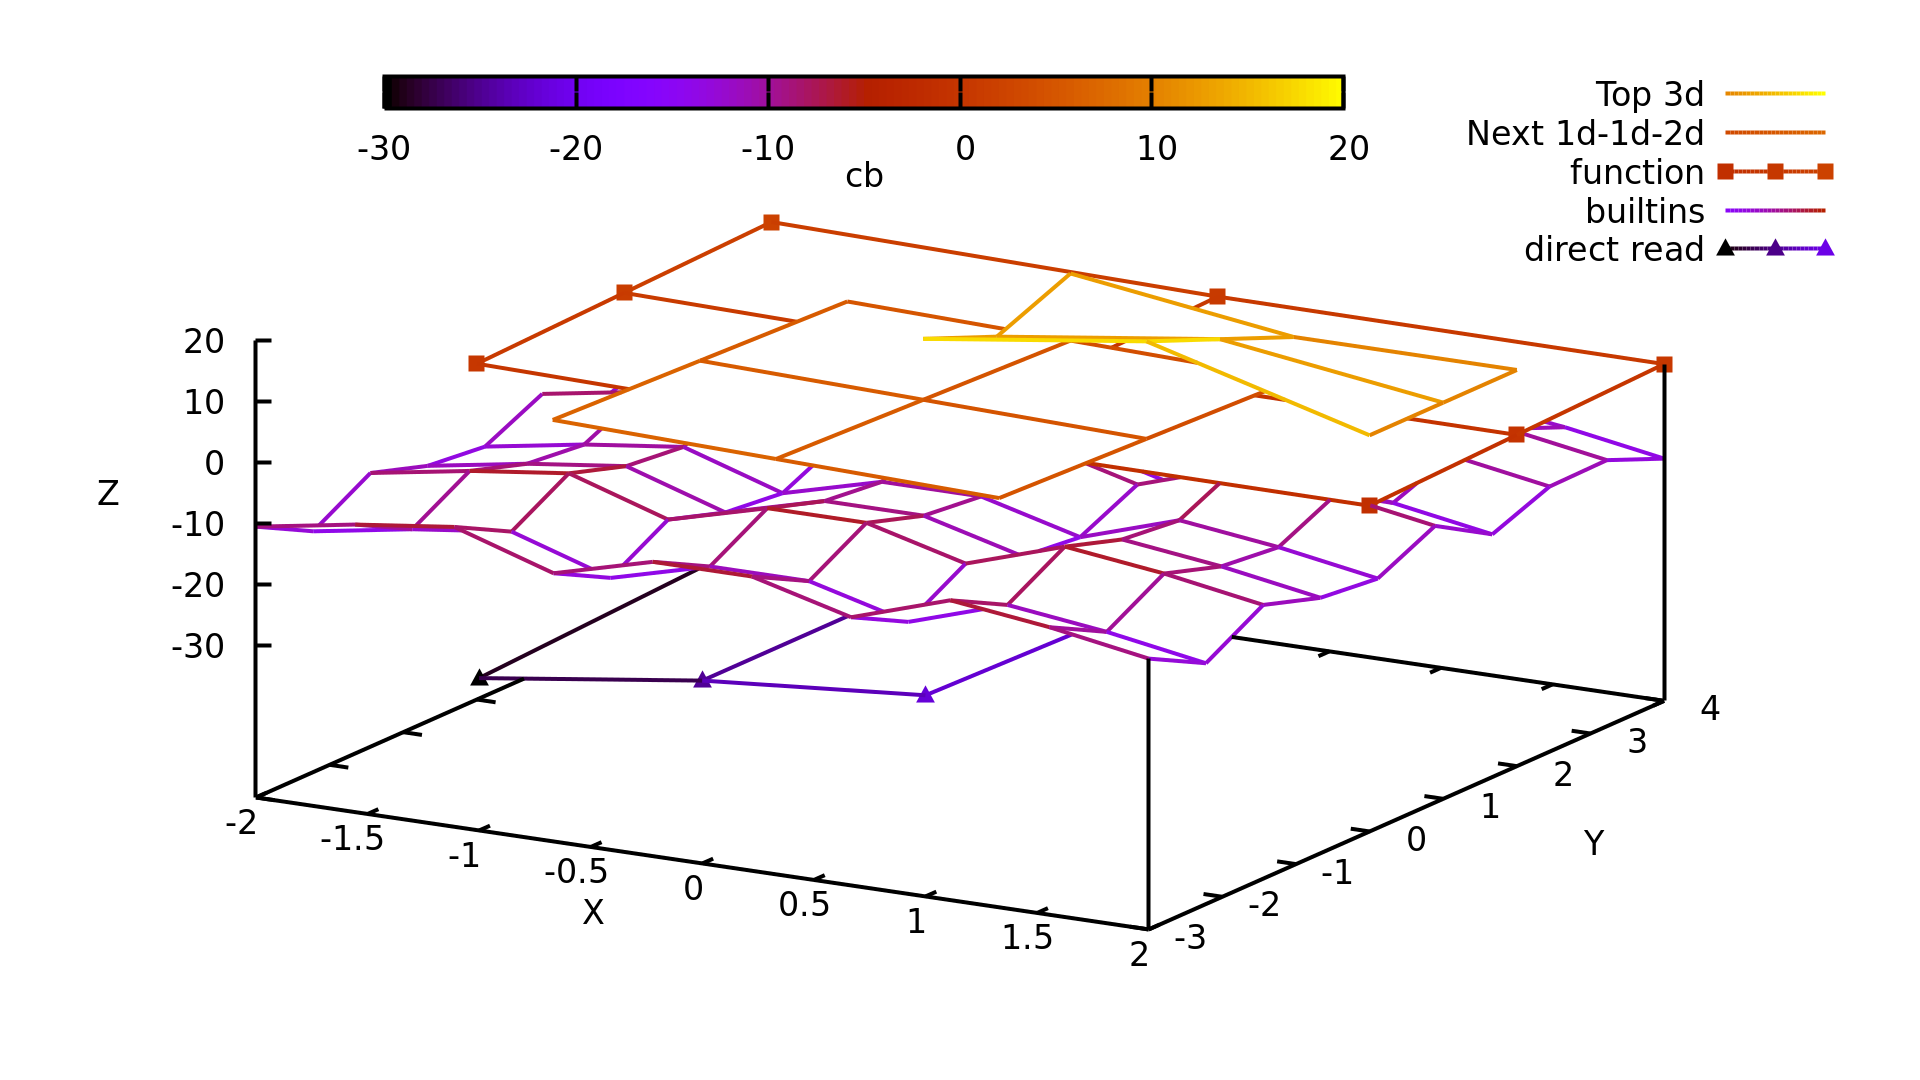
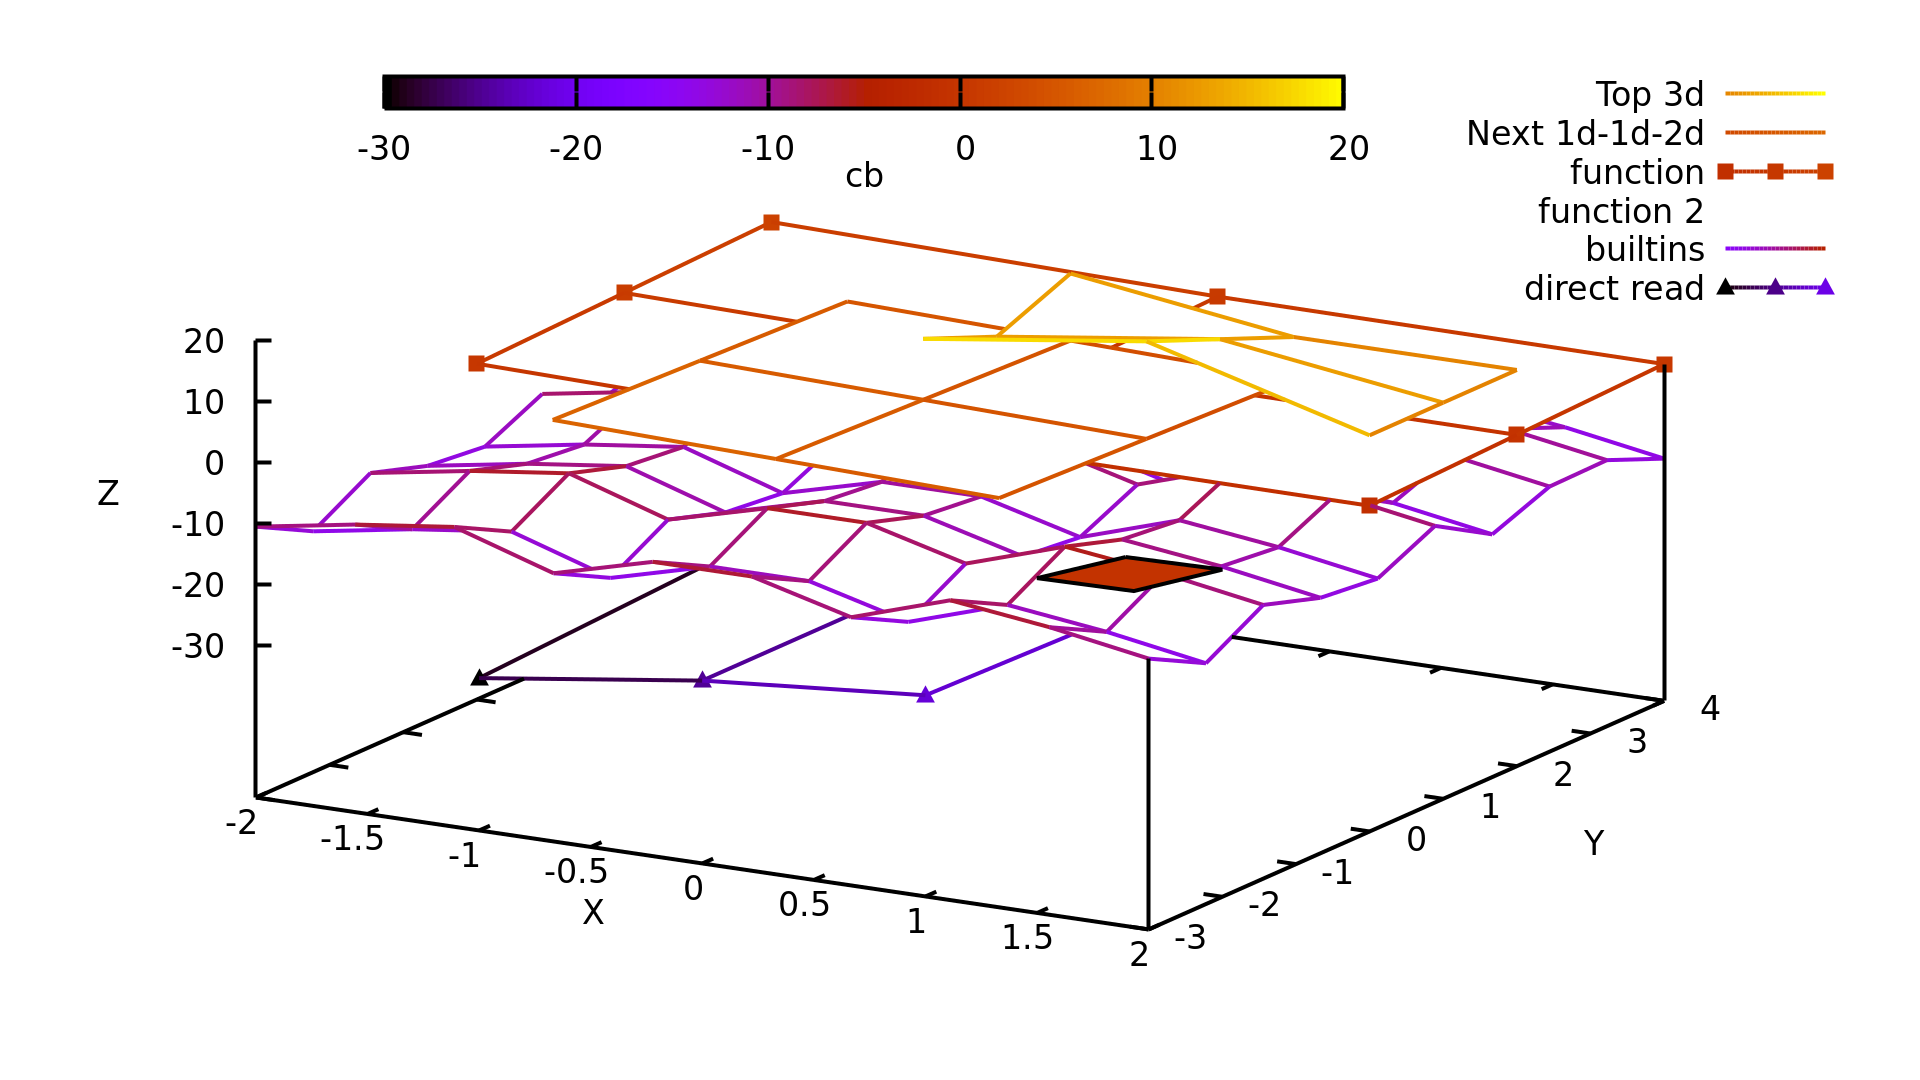
Allow for a 3d xy matrix and function to be specified for 3d plotting and update README

Changed region(s): [[0.7812, 0.1833, 0.9688, 0.275], [0.5312, 0.5194, 0.6562, 0.55]]

diff --git a/README.md b/README.md
@@ -75,9 +75,10 @@ TODO: Add a multiplot with all the other kinds of 2d plots (bar, violin, histo, 
 Default is "with pm3d". You must use a format string "with lines" ("w l") to do wireframe style plots.
 
 Below are all the ways to make a 3d plot via the 'plot' function.
-* xyz sets with multiple rows
-* x-list y-list z-matrix
+* xyz-matrix
+* x-list y-list 2d-z-matrix
 * x-list y-list function
+* xy-matrix function
 * gnuplot builtin, e.g. "airy(x) + cos(y)"
 * direct file read
 ```
@@ -87,18 +88,20 @@ Below are all the ways to make a 3d plot via the 'plot' function.
 (plt:plot :terminal "qt lw 4 font ',25' size 1920,1080"
           '(((0 0 15) (1 0 20) (2 0 10))
             ((0 1 10) (1 1 15) (2 1 10))
-            ((0 2 15) (1 2 10) (2 2 10))) "w l pal title 'Top 3d'" ;; 3d data as sets of sets of xyz data
-          '(-2 0 2) '(0 2 4) (lambda (x y) (+ (sin x) (cos y))) "w lp ps 2 pal title 'function'"
-		  '(-1 0 1) '(-2 0 2) 
-          '((7 6 5) (6 5 4) (5 4 3)) "w l pal title 'Next 1d-1d-2d'" ;; 3d data as x list, y list, then z matrix
-          "-10 + 3*(cos(5*x) - sin(5*y)) w l pal title 'builtins'"
-          "'./resources/quick-3d-data.txt' w lp ps 2 pal title 'direct read'"
+            ((0 2 15) (1 2 10) (2 2 10))) "w l pal title 'Top 3d'" ;; 3d xyz-matrix
+          '(-2 0 2) '(0 2 4) (lambda (x y) (+ (sin x) (cos y))) "w lp ps 2 pal title 'function'" ;; x-list y-list function
+          '(((1.5 -3) (1.9 -2.9)) ((1.6 -2.1) (2.0 -2))) (lambda (x y) (+ (cos x) (sin y))) "w pm3d pal title 'function 2'" ;; 3d xy-matrix function
+          '(-1 0 1) '(-2 0 2) 
+          '((7 6 5) (6 5 4) (5 4 3)) "w l pal title 'Next 1d-1d-2d'" ;; x-list y-list 2d-z-matrix
+          "-10 + 3*(cos(5*x) - sin(5*y)) w l pal title 'builtins'" ;; gnuplot builtins
+          "'./resources/quick-3d-data.txt' w lp ps 2 pal title 'direct read'" ;; direct file read
+          :pm3d "border"
           :hidden3d ""
           :xlabel "'X'" :ylabel "'Y'" :zlabel "'Z'" :cblabel "'cb' offset 0,1" :colorbox "horizontal user origin 0.2,0.9 size 0.5,0.03"
           :xtics "offset 0,-0.3"
           :view "60,30")
 		  
-(plt:rearrange-plots '(0 2 1 3 4))
+(plt:rearrange-plots '(0 3 1 2 4 5))
 (plt:resend-plots)
 
 (plt:save-last-plot "pngcairo lw 4 font ',25' size 1920,1080" "./resources/3d-plotting.png")
